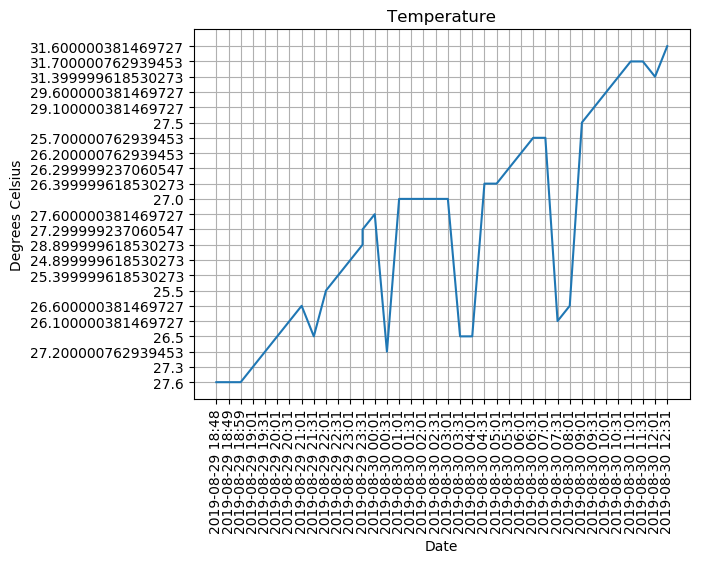
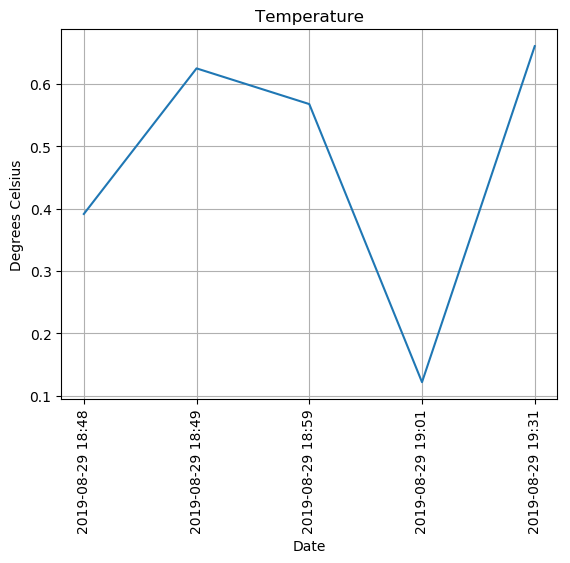
2019-08-30 13:05

Changed region(s): [[0.0, 0.0, 0.9842, 0.9964]]

diff --git a/monitor.py b/monitor.py
@@ -14,6 +14,7 @@ from time import sleep
 import Adafruit_DHT
 import requests
 import datetime
+import random
 
 cameraCaptureIsOn = False
 now = datetime.datetime.now()
@@ -24,6 +25,7 @@ humidityImageFileName = '/share/raspiEyes/humidities.png'
 captureImageFileName = '/share/raspiEyes/capture.jpg'
 gitRepoPath = '/share/raspiEyes/'
 gitCommitMessage = f'{now.strftime("%Y-%m-%d %H:%M")}'
+maxDataItems = 5
 
 # pir = MotionSensor(4)
 if cameraCaptureIsOn:
@@ -38,6 +40,7 @@ if cameraCaptureIsOn:
 sensormodel = Adafruit_DHT.AM2302
 sensorpin = 4
 humidity, temperature = Adafruit_DHT.read_retry(sensormodel, sensorpin)
+
 # humidity = round(humidity, 2)
 # temperature = round(temperature, 2)
 
@@ -55,9 +58,10 @@ temperatureTimeList = []
 temperatureDataList = []
 i = 0
 for e in temperatureContent:
-	if i < 49:
+	if i < maxDataItems:
 		temperatureTimeList.append(e.split(',')[0])
-		temperatureDataList.append(e.split(',')[1])
+		#temperatureDataList.append(e.split(',')[1])
+		temperatureDataList.append(random.random())
 		i = i + 1
 
 plt.plot(temperatureTimeList, temperatureDataList)
@@ -83,7 +87,7 @@ humidityTimeList = []
 humidityDataList = []
 i = 0
 for e in humidityContent:
-	if i < 49:
+	if i < maxDataItems:
 		humidityTimeList.append(e.split(',')[0])
 		humidityDataList.append(e.split(',')[1])
 		i = i + 1
